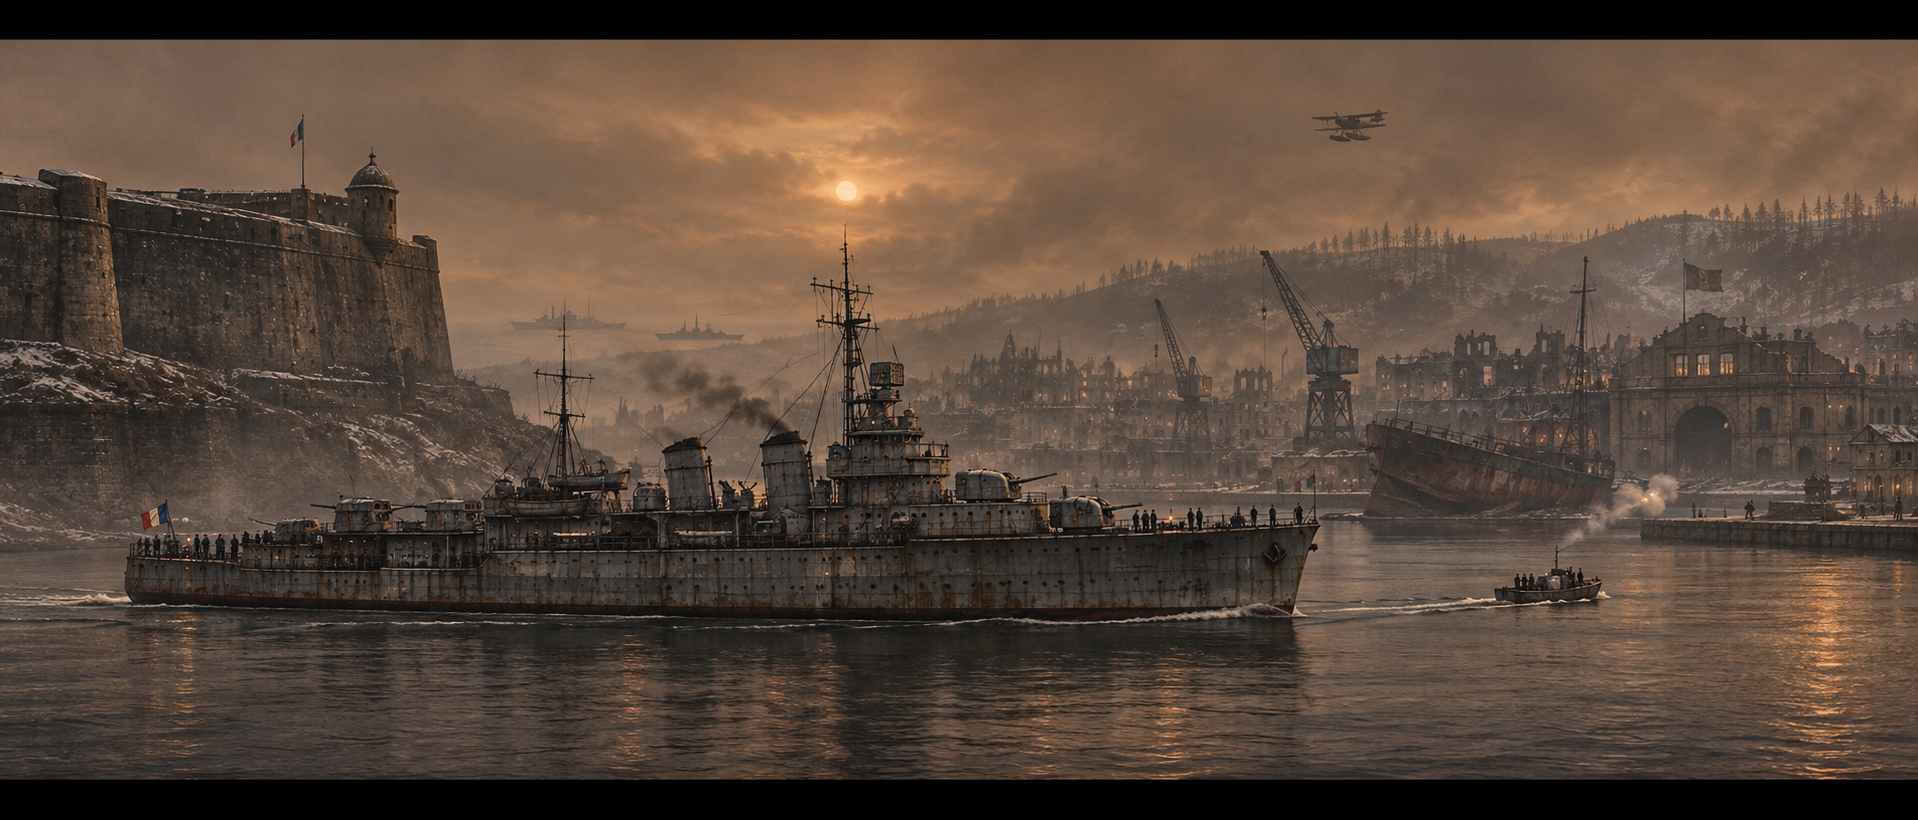
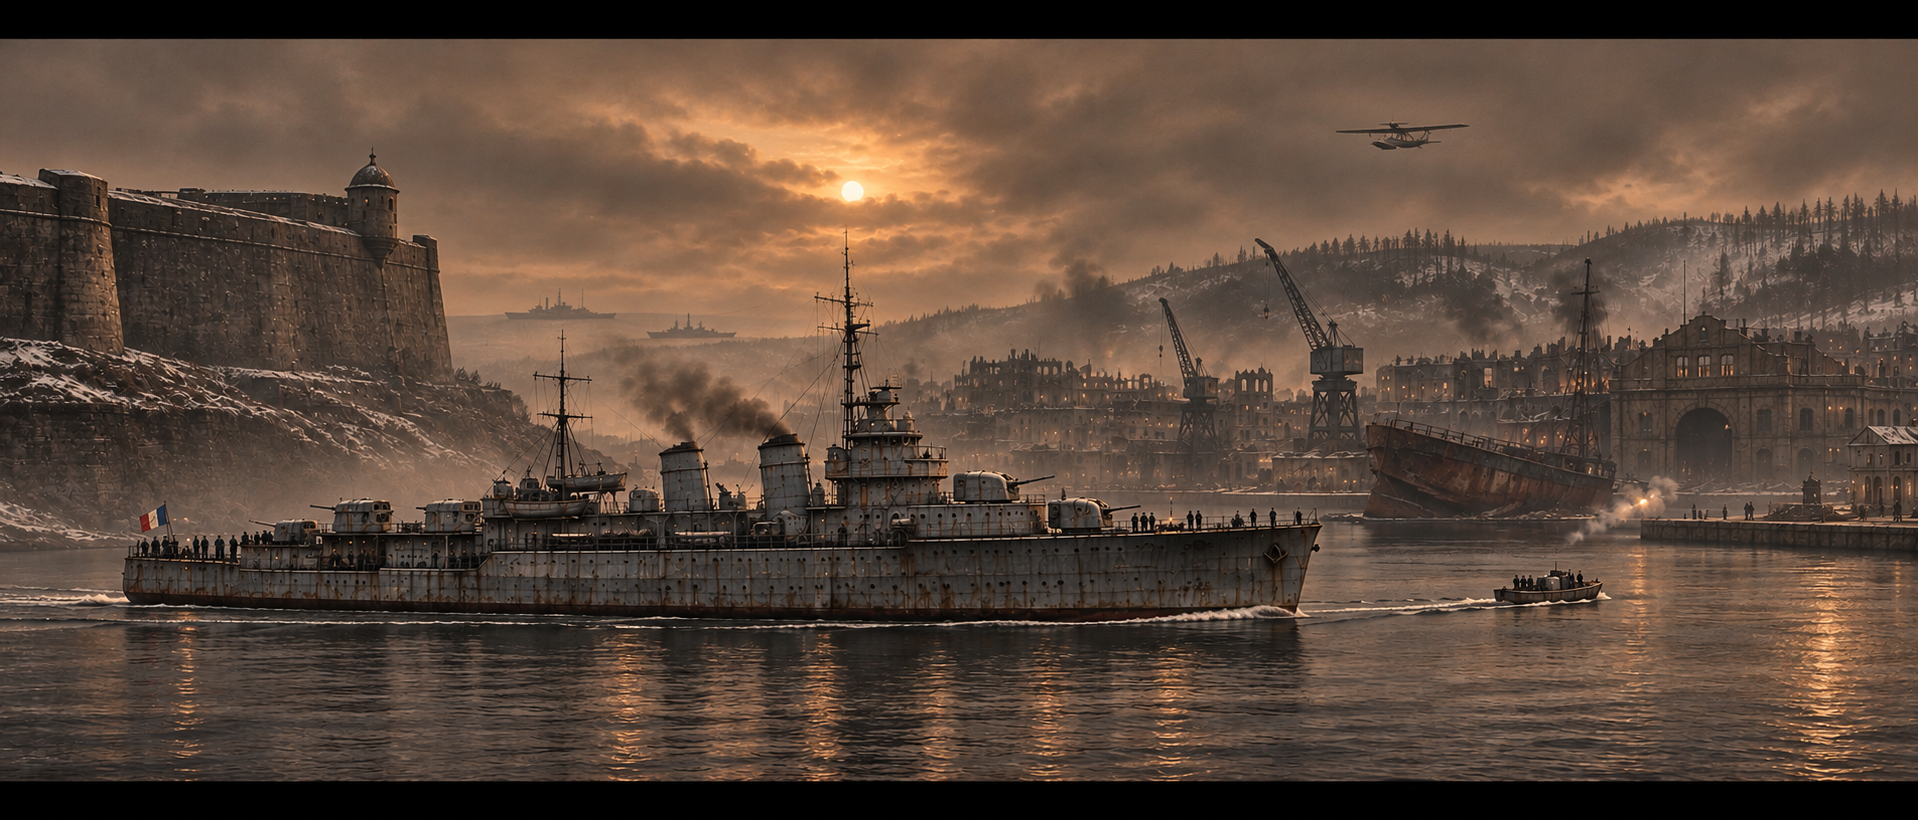
Illustration : nouvelle version de l'entrée du Volta à Lorient (sans drapeau sur la citadelle, Loire 130 monoplan), écarts mis à jour

diff --git a/36-expedition-de-la-manche.md b/36-expedition-de-la-manche.md
@@ -136,8 +136,7 @@ Environ **1 000 hommes** en tout : les équipages réduits des trois navires ; u
 *Le 29 juin 1942, le* Volta *entre dans la rade de Lorient sous la citadelle de Port-Louis. Au large, le* Georges Leygues *et le* Faulknor *attendent dans la brume ; au-dessus, l'hydravion de Kerlann. Sur les quais, la fumée blanche du coup de semonce qui accueille l'embarcation du* Volta.
 
 **Écarts de l'image au canon et à l'histoire** :
-- **Un drapeau tricolore** flotte sur la citadelle de Port-Louis : personne ne l'y a hissé en 1942. Seul compte le pavillon délavé de l'arsenal.
-- **L'hydravion** est un biplan à deux flotteurs ; le Loire 130 est un **hydravion à coque, monoplan** [histoire].
+- **Le pavillon délavé de l'arsenal** (§6.1) n'apparaît pas.
 - **Trop de fenêtres éclairées** dans la ville : sans électricité, la communauté de Lorient n'a que quelques feux.
 - **Des collines trop hautes** : les rives de la rade de Lorient sont basses.
 - **La citadelle de Port-Louis** est sur la rive est de la passe [histoire] ; la vue est donc prise depuis Larmor ou Gâvres, en regardant vers l'est (le prompt la plaçait simplement « à gauche »).
